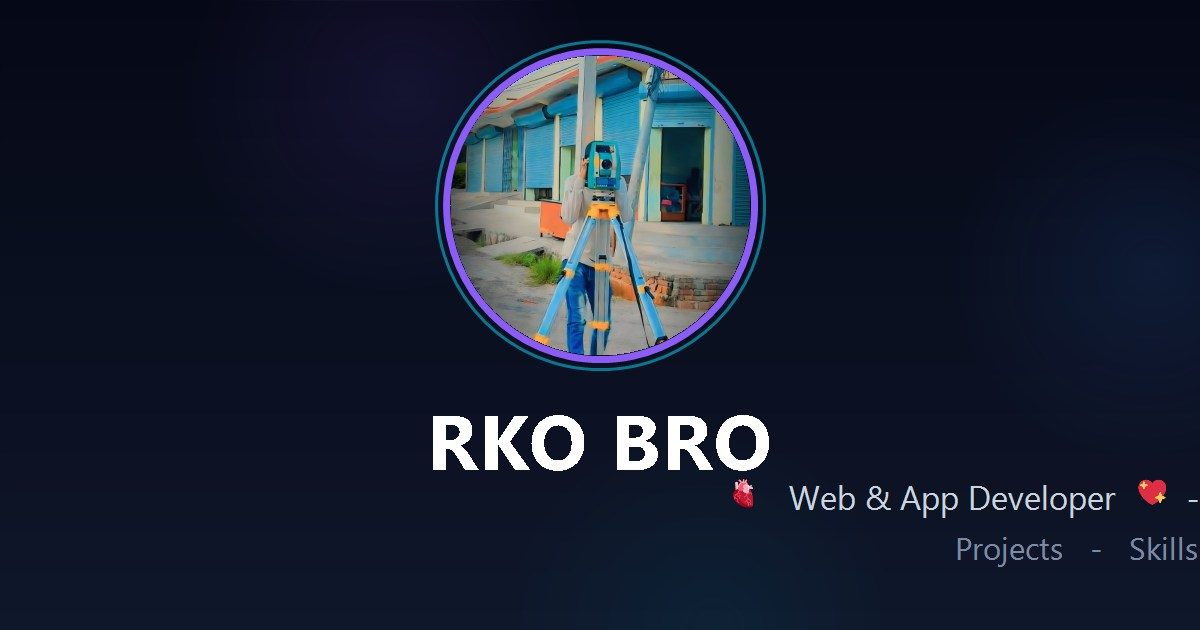
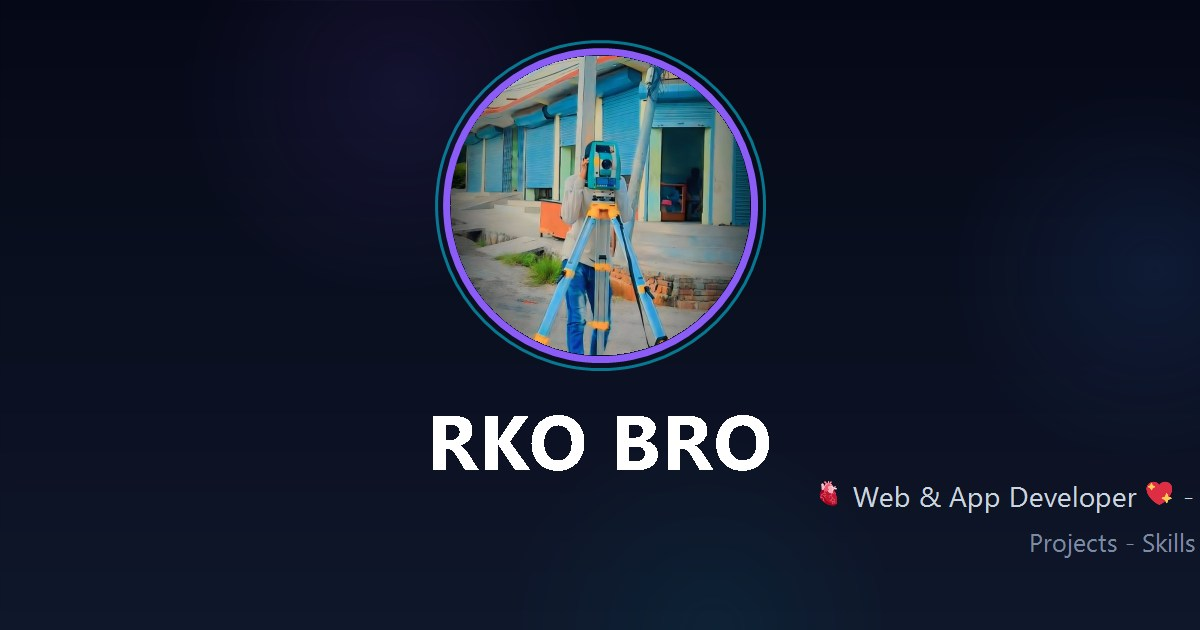
og-image v7: tighter emoji spacing, text centered within bounds

Changed region(s): [[0.5858, 0.754, 0.9867, 0.8143], [0.8017, 0.8444, 1.0, 0.9048]]

diff --git a/index.html b/index.html
@@ -9,7 +9,7 @@
   <meta property="og:description" content="🫀 Web & App Developer💖 — Creator of RKO Downloader 🤌 Projects • Skills • Experience 🫶" />
   <meta property="og:type" content="website" />
   <meta property="og:url" content="https://rko-bro-website.pages.dev/" />
-  <meta property="og:image" content="https://rko-bro-website.pages.dev/assets/og-image.jpg?v=6" />
+  <meta property="og:image" content="https://rko-bro-website.pages.dev/assets/og-image.jpg?v=7" />
   <meta property="og:image:width" content="1200" />
   <meta property="og:image:height" content="630" />
   <meta property="og:image:alt" content="RKO BRO - Full Stack Developer" />
@@ -17,7 +17,7 @@
   <meta name="twitter:card" content="summary_large_image" />
   <meta name="twitter:title" content="💖 RKO BRO | Full Stack Developer 🫶" />
   <meta name="twitter:description" content="🫀 Web & App Developer💖 — Creator of RKO Downloader 🤌 Projects • Skills • Experience 🫶" />
-  <meta name="twitter:image" content="https://rko-bro-website.pages.dev/assets/og-image.jpg?v=6" />
+  <meta name="twitter:image" content="https://rko-bro-website.pages.dev/assets/og-image.jpg?v=7" />
   <meta name="theme-color" content="#050816" />
   <link rel="icon" type="image/png" href="assets/favicon-64.png" />
   <link rel="apple-touch-icon" href="assets/favicon-180.png" />
